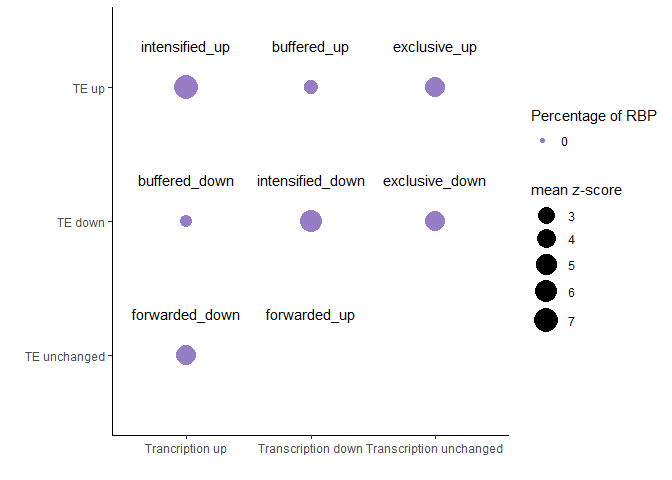
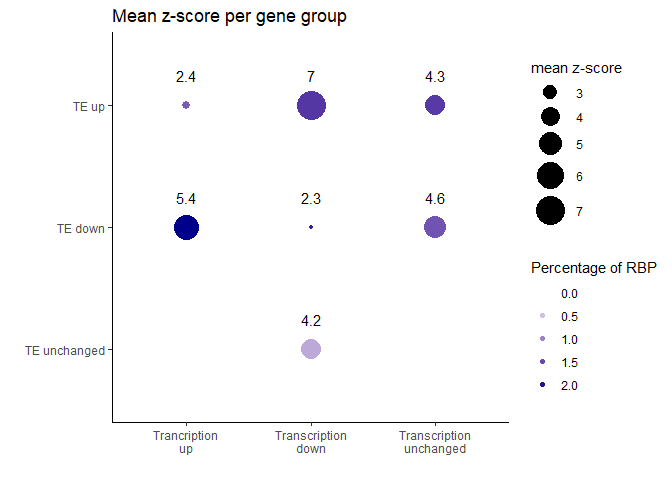
Commit after knit

diff --git a/README.md b/README.md
@@ -19,17 +19,19 @@ Users may use following codes to check and install all the required
 packages.
 
 ``` r
-list.of.packages <- c("ggplot2","pheatmap","grid","doParallel","foreach","data.table","fastmatch","GGally","ggnet","topGO","ALL","devtools")
+list.of.packages <- c("ggplot2","grid","doParallel","foreach","data.table","fastmatch","GGally","ggnet","topGO","ALL","devtools")
 
 ## for package "ggplot2", "pheatmap", "grid", "doParallel", "foreach", "data.table", "fastmatch", "GGally"
 new.packages <- list.of.packages[!(list.of.packages %in% installed.packages()[,"Package"])]
 if(length(new.packages)) install.packages(new.packages)
 
-## for package "topGO", "ALL"
+## for package "topGO", "ALL", "ggnet", "ComplexHeatmap"
 if (!requireNamespace("BiocManager", quietly = TRUE)) install.packages("BiocManager")
 new.packages <- list.of.packages[!(list.of.packages %in% installed.packages()[,"Package"])]
 if(length(new.packages))  BiocManager::install(new.packages)
 if("ggnet"%in%new.packages)  devtools::install_github("briatte/ggnet")
+install_version("network", version = "1.16.1", repos = "http://cran.us.r-project.org")
+if("ComplexHeatmap"%in%new.packages)  devtools::install_github("jokergoo/ComplexHeatmap")
 ```
 
 ### Install CLIPreg
@@ -41,33 +43,60 @@ The source code of CLIPreg can be installed from
 devtools::install_github("SGDDNB/CLIPreg")
 ```
 
-## Input datasets
-
 CLIPreg requires 4 different inputs. A cluster input which is a
-dataframe containing geneID and the cluster given by DeltaTE output.
-Curated CLIP-seq data that can be downloaded from . RIBO and RNA lfc and
-TPM. (TPM are optional)
+dataframe containing geneID and the cluster given by DeltaTE output
+(ideally). Curated CLIP-seq data, POSTAR and ENCODE are pre-loaded in
+the package. RIBO lfc and TPM.
 
 ``` r
 ## load libraries
 library(CLIPreg)
 library(ggplot2)
-library(pheatmap)
-#> Warning: package 'pheatmap' was built under R version 3.6.3
+library(ComplexHeatmap)
 library(grid)
 library(doParallel)
-#> Warning: package 'doParallel' was built under R version 3.6.3
-#> Warning: package 'foreach' was built under R version 3.6.3
-#> Warning: package 'iterators' was built under R version 3.6.3
 library(ggnet)
 library(topGO)
-#> Warning: package 'S4Vectors' was built under R version 3.6.3
-#> Warning: package 'SparseM' was built under R version 3.6.3
+library(GGally)
 library(data.table)
-#> Warning: package 'data.table' was built under R version 3.6.3
 library(stringr)
-#> Warning: package 'stringr' was built under R version 3.6.3
 ```
+
+### Basic usage
+
+For testing the package with the example data
+
+``` r
+#Example=Load_example()
+```
+
+For using your own data, you must specify a folder that contains at
+least 3 txt files that are named: clusters.txt, ribo\_lfc.txt and
+ribo\_tpm.txt. For the format of those 3 files, please refer to Advance
+usage step 1.
+
+``` r
+#Input_data=Load_input_files(folder = "path/to/folder")
+```
+
+Run the analysis with all default parameters.
+
+``` r
+#results=run_CLIPreg(Example, is.example=T) # or run_CLIPreg(Input_data, is.example=F)
+```
+
+Generate the visual output from the results of the analysis. The
+Visualise function will create 2 new files in the folder given: an Rdata
+file containing the list object from the run\_CLIPreg function and a pdf
+file with the main figures.
+
+``` r
+#Visualise(results=results,folder=getwd())
+```
+
+### Advance usage
+
+## Step 1: Input datasets
 
 Let’s have a look at the cluster file from the example data. It consists
 of 2 columns containing the geneID and the cluster for all the DE genes.
@@ -102,52 +131,6 @@ data in a target list.
 data("RBP_ENCODE")
 data("RBP_POSTAR")
 Targets=combine_targets(RBP_list1=RBP_ENCODE,RBP_list2=RBP_POSTAR,background=clusters$geneID)
-```
-
-Run the enrichment analysis using CLIPReg\_V4() function. This takes
-several minutes. If you want to have a look at the example results skip
-this step.
-
-``` r
-# The CLIPreg_V4 function requires a few minutes to run, save the data after running it to be sure not to lose it
-# res_Postar=CLIPReg_V4(RBP_data=RBP_POSTAR,clusters=clusters)
-# res_Encode=CLIPReg_V4(RBP_data=RBP_ENCODE,clusters=clusters)
-# save(res_Encode,file="Res_RBP_Encode.RData")
-# save(res_Postar,file="Res_RBP_Postar.RData")
-```
-
-If you want to get the results directly you can load it by using the
-example data results. The output of CLIPReg\_V4() is a list of
-dataframes. One dataframe per cluster containing the RBP and statistical
-information calculated during the analysis such as p-value and z-score.
-
-``` r
-data("Res_Encode")
-data("Res_Postar")
-head(res_Encode[[1]])
-#>       RBP real_overlap simulated_overlap_mean simulated_overlap_sd          z
-#> 1 ZC3H11A          268              282.41101            12.590167 -1.1446242
-#> 2    GNL3           14               15.73466             3.306621 -0.5246020
-#> 3  HNRNPM          345              396.49065            14.077142 -3.6577488
-#> 4   RBM15          461              476.04563            14.839723 -1.0138754
-#> 5   DDX24          370              406.79695            14.246241 -2.5829235
-#> 6   XRCC6          142              146.71529             9.573704 -0.4925252
-#>      pval
-#> 1 0.86594
-#> 2 0.63920
-#> 3 0.99986
-#> 4 0.83574
-#> 5 0.99474
-#> 6 0.66889
-```
-
-Then we want to combine POSTAR and ENCODE to work with only one
-dataframe and only keep RBPs that are significant in at least one
-cluster.
-
-``` r
-
-res=CLIPreg::combine(res1=res_Encode,res2=res_Postar)
 ```
 
 Load the fold change and identify the RBPs. If you have your own then
@@ -215,6 +198,54 @@ head(tpm_ribo)
 #load_ribo_tpm(ribo_tpm_file = "ribo_tpm_file")
 ```
 
+## Step 2: Data integration and analysis
+
+Run the enrichment analysis using CLIPReg\_V4() function. This takes
+several minutes. If you want to have a look at the example results skip
+this step.
+
+``` r
+# The CLIPreg_V4 function requires a few minutes to run, save the data after running it to be sure not to lose it
+# res_Postar=CLIPReg_V4(RBP_data=RBP_POSTAR,clusters=clusters)
+# res_Encode=CLIPReg_V4(RBP_data=RBP_ENCODE,clusters=clusters)
+# save(res_Encode,file="Res_RBP_Encode.RData")
+# save(res_Postar,file="Res_RBP_Postar.RData")
+```
+
+If you want to get the results directly you can load it by using the
+example data results. The output of CLIPReg\_V4() is a list of
+dataframes. One dataframe per cluster containing the RBP and statistical
+information calculated during the analysis such as p-value and z-score.
+
+``` r
+data("Res_Encode")
+data("Res_Postar")
+head(res_Encode[[1]])
+#>       RBP real_overlap simulated_overlap_mean simulated_overlap_sd          z
+#> 1 ZC3H11A          268              282.41101            12.590167 -1.1446242
+#> 2    GNL3           14               15.73466             3.306621 -0.5246020
+#> 3  HNRNPM          345              396.49065            14.077142 -3.6577488
+#> 4   RBM15          461              476.04563            14.839723 -1.0138754
+#> 5   DDX24          370              406.79695            14.246241 -2.5829235
+#> 6   XRCC6          142              146.71529             9.573704 -0.4925252
+#>      pval
+#> 1 0.86594
+#> 2 0.63920
+#> 3 0.99986
+#> 4 0.83574
+#> 5 0.99474
+#> 6 0.66889
+```
+
+Then we want to combine POSTAR and ENCODE to work with only one
+dataframe and only keep RBPs that are significant in at least one
+cluster.
+
+``` r
+
+res=CLIPreg::combine(res1=res_Encode,res2=res_Postar)
+```
+
 Extract the RBP LFC from the RIBO\_LFC and keep only detected RBPs in
 res
 
@@ -226,6 +257,8 @@ rbp_lfc=rbp_change(res=res,ribo_lfc=ribo_lfc)
 res=cure_res(res=res,rbp_lfc=rbp_lfc)
 ```
 
+## Step 3: Visualisation
+
 Generate and save heatmap to pdf. The heatmap represents the -logP of
 each RBP for each cluster. The blue RBPs are downregulated and the
 orange RBPs are upregulated. Only RBPs that are significant in at least
@@ -234,19 +267,20 @@ one cluster are shown.
 ``` r
 # Heatmap of RBP scores
 
-e=HeatmapRBP(res=res,rbp_lfc=rbp_lfc,grid=F)
-e # Plot the heatmap with updated colors for the RBPs
+HeatmapRBP(res=res,rbp_lfc=rbp_lfc)
 ```
 
 ![](man/figures/README-Generate%20and%20save%20heatmap-1.png)<!-- -->
 
 ``` r
+# Plot the heatmap with updated colors for the RBPs
 
 # Save the heatmap
+# e=HeatmapRBP(res=res,rbp_lfc=rbp_lfc)
 # location="Heatmap_fibroblasts.pdf"
 # n=length(e$tree_row$order)
 # pdf(location,8,3+n*0.15)
-# e
+# 
 # dev.off()
 ```
 
@@ -255,7 +289,7 @@ DeltaTE program.
 
 ``` r
 # Bubble plot clusters if clusters are from DeltaTE
-BubbleRBPs(RBP_res = res,clusters = clusters)
+BubbleRBPs(res = res,clusters = clusters,rbp_lfc = rbp_lfc)
 ```
 
 ![](man/figures/README-Bubble%20plot-1.png)<!-- -->
@@ -265,22 +299,22 @@ network for by n. This will pick the n most changing RBPs.
 
 ``` r
 # Draw network
-Draw_network_by_group(rbp_lfc=rbp_lfc,res=res[-c(1,2)],Targets=Targets,clusters=clusters,n=5)
+Draw_network_by_group(rbp_lfc=rbp_lfc,res=res,Targets=Targets,clusters=clusters,n=5,forwarded = F)
 ```
 
 ![](man/figures/README-Network-1.png)<!-- -->
 
 ``` r
 # plot GO
-Plot_GO(rbp_lfc=rbp_lfc,res=res[-c(1,2)],Targets=Targets,clusters=clusters,n=5,
-  tpm_ribo = tpm_ribo,th=200,GO_to_show=3)
+Plot_GO(rbp_lfc=rbp_lfc,res=res,Targets=Targets,clusters=clusters,n=5,
+  tpm_ribo = tpm_ribo,th=200,GO_to_show=3,forwarded = F)
 ```
 
 ![](man/figures/README-GO%20of%20specific%20nodes-1.png)<!-- -->
 
 ``` r
-Plot_GO_node_name(rbp_lfc=rbp_lfc,res=res[-c(1,2)],Targets=Targets,clusters=clusters,n=5,
-                  tpm_ribo = tpm_ribo,Nodes_to_keep=c(19,15),GO_to_show=3)
+Plot_GO_node_name(rbp_lfc=rbp_lfc,res=res,Targets=Targets,clusters=clusters,n=5,
+                  tpm_ribo = tpm_ribo,Nodes_to_keep=c(19,15),GO_to_show=3,forwarded = F)
 ```
 
 ![](man/figures/README-GO%20of%20specific%20nodes-2.png)<!-- -->
